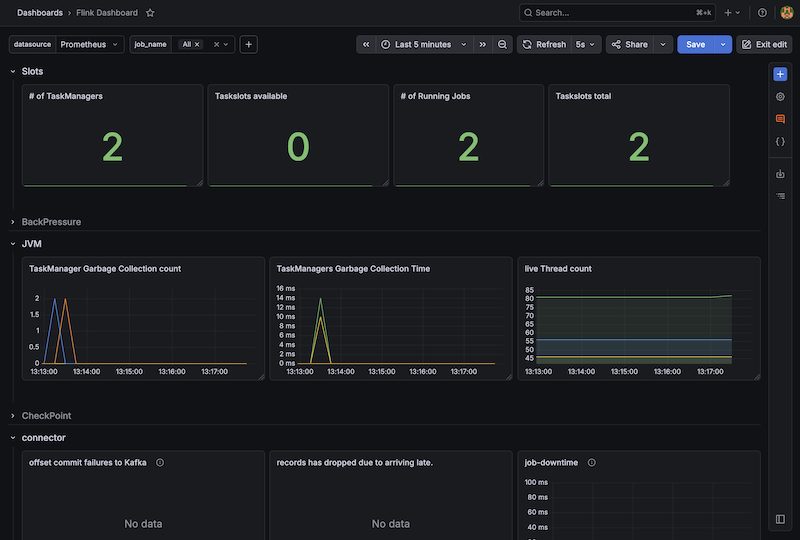
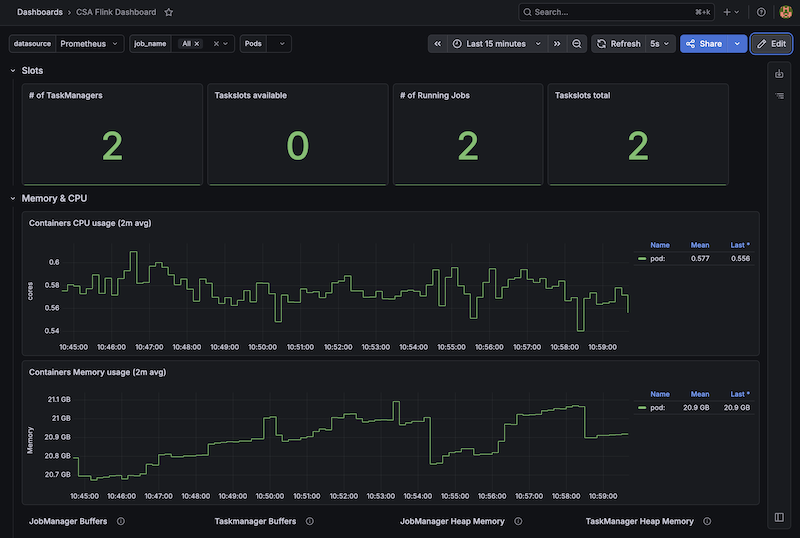
CSA Dashboard

diff --git a/_site/repos/index.html b/_site/repos/index.html
@@ -294,38 +294,7 @@
           </span>
 
           <span class="btn" style="padding: 0.2em 0.6em; font-size: 0.7em; cursor: default; pointer-events: none; margin-bottom: 5px; background-color: #eeeeee; color: #444444; border: 1px solid #dddddd;">
-            <i class="fas fa-calendar-alt" aria-hidden="true"></i> 2026-05-06
-          </span>
-
-        </div>
-      </article>
-    </div>
-  
-    <div class="grid__item">
-      <article class="archive__item" itemscope="" itemtype="https://schema.org/CreativeWork">
-        <h2 class="archive__item-title no_toc" itemprop="headline">
-          <a href="https://github.com/cldr-steven-matison/ClouderaStreamingOperators" rel="permalink">ClouderaStreamingOperators</a>
-        </h2>
-        
-        <p class="archive__item-excerpt" itemprop="description">
-          
-            Repo for yaml used in installing Cloudera Streaming Operators
-          
-        </p>
-
-        <div class="page__meta" style="margin-top: 10px;">
-          
-          
-          
-          <span class="btn btn--inverse" style="padding: 0.2em 0.6em; font-size: 0.7em; cursor: default; pointer-events: none; opacity: 0.8; margin-bottom: 5px;">
-            <i class="fas fa-database" aria-hidden="true"></i> 
-            
-              54 KB
-            
-          </span>
-
-          <span class="btn" style="padding: 0.2em 0.6em; font-size: 0.7em; cursor: default; pointer-events: none; margin-bottom: 5px; background-color: #eeeeee; color: #444444; border: 1px solid #dddddd;">
-            <i class="fas fa-calendar-alt" aria-hidden="true"></i> 2026-05-06
+            <i class="fas fa-calendar-alt" aria-hidden="true"></i> 2026-05-07
           </span>
 
         </div>
@@ -355,7 +324,38 @@
           <span class="btn btn--inverse" style="padding: 0.2em 0.6em; font-size: 0.7em; cursor: default; pointer-events: none; opacity: 0.8; margin-bottom: 5px;">
             <i class="fas fa-database" aria-hidden="true"></i> 
             
-              998 KB
+              0 MB
+            
+          </span>
+
+          <span class="btn" style="padding: 0.2em 0.6em; font-size: 0.7em; cursor: default; pointer-events: none; margin-bottom: 5px; background-color: #eeeeee; color: #444444; border: 1px solid #dddddd;">
+            <i class="fas fa-calendar-alt" aria-hidden="true"></i> 2026-05-07
+          </span>
+
+        </div>
+      </article>
+    </div>
+  
+    <div class="grid__item">
+      <article class="archive__item" itemscope="" itemtype="https://schema.org/CreativeWork">
+        <h2 class="archive__item-title no_toc" itemprop="headline">
+          <a href="https://github.com/cldr-steven-matison/ClouderaStreamingOperators" rel="permalink">ClouderaStreamingOperators</a>
+        </h2>
+        
+        <p class="archive__item-excerpt" itemprop="description">
+          
+            Repo for yaml used in installing Cloudera Streaming Operators
+          
+        </p>
+
+        <div class="page__meta" style="margin-top: 10px;">
+          
+          
+          
+          <span class="btn btn--inverse" style="padding: 0.2em 0.6em; font-size: 0.7em; cursor: default; pointer-events: none; opacity: 0.8; margin-bottom: 5px;">
+            <i class="fas fa-database" aria-hidden="true"></i> 
+            
+              54 KB
             
           </span>
 

diff --git a/_site/blog/Monitoring-Cloudera-Streaming-Analytics-(CSA)-with-Prometheus/index.html b/_site/blog/Monitoring-Cloudera-Streaming-Analytics-(CSA)-with-Prometheus/index.html
@@ -297,7 +297,7 @@
       <span class="page__meta-readtime">
         <i class="far fa-clock" aria-hidden="true"></i>
         
-          5 minute read
+          4 minute read
         
       </span>
     
@@ -503,37 +503,24 @@ or
 
 <h3 id="visualizing-in-grafana">Visualizing in Grafana</h3>
 
-<ul>
-  <li>
-<strong>ID <code class="language-plaintext highlighter-rouge">11049</code> (Recommended First Test)</strong>
+<p><strong>Import the Cloudera CSA Flink Dashboard</strong></p>
+<ol>
+  <li>Download the <a href="https://github.com/cldr-steven-matison/ClouderaStreamingOperators/blob/main/csa-flink-dashboard.json">CSA Flink Dashboard JSON</a>:
+    <div class="language-bash highlighter-rouge">
+<div class="highlight"><pre class="highlight"><code>curl <span class="nt">-O</span> https://raw.githubusercontent.com/cldr-steven-matison/ClouderaStreamingOperators/refs/heads/main/csa-flink-dashboard.json
+</code></pre></div>    </div>
+  </li>
+  <li>In Grafana → <strong>Dashboards</strong> → <strong>New</strong> → <strong>Import</strong>
+</li>
+  <li>Click <strong>Upload JSON file</strong> and select the downloaded file.</li>
+  <li>On the next screen:
     <ul>
-      <li>
-<strong>Name:</strong> Flink Dashboard</li>
-      <li>
-<strong>Description:</strong> The standard, most reliable community dashboard built explicitly for the Flink Prometheus Exporter. It tracks JobManagers, TaskManagers, JVM metrics, and basic job health.</li>
+      <li>Datasource → select your Prometheus data source</li>
+      <li>Click <strong>Import</strong>
+</li>
     </ul>
   </li>
-  <li>
-<strong>ID <code class="language-plaintext highlighter-rouge">14911</code></strong>
-    <ul>
-      <li>
-<strong>Name:</strong> Apache Flink Dashboard for Job / Task Manager</li>
-      <li>
-<strong>Description:</strong> A slightly more modern layout that breaks down metrics specifically between the Job Manager and Task Manager. Good for digging into CPU/Memory constraints.</li>
-    </ul>
-  </li>
-  <li>
-<strong>ID <code class="language-plaintext highlighter-rouge">14840</code></strong>
-    <ul>
-      <li>
-<strong>Name:</strong> Flink Metrics (with Kafka) on K8S</li>
-      <li>
-<strong>Description:</strong> Since you are running CSA alongside Kafka, this dashboard is actually built to monitor Flink applications <em>and</em> includes Kafka throughput parameters alongside Kubernetes memory/CPU stats.</li>
-    </ul>
-  </li>
-</ul>
-
-<p>[ this needs work,  need to check all 3 dashboards, build a cloudera dashboard ]</p>
+</ol>
 
 <p><em>Boom. You now have the new Cloudera CSA Flink Dashboard in Grafana:</em></p>
 

diff --git a/_site/tags/index.html b/_site/tags/index.html
@@ -9836,7 +9836,7 @@
       <span class="page__meta-readtime">
         <i class="far fa-clock" aria-hidden="true"></i>
         
-          4 minute read
+          5 minute read
         
       </span>
     
@@ -15834,7 +15834,7 @@
       <span class="page__meta-readtime">
         <i class="far fa-clock" aria-hidden="true"></i>
         
-          5 minute read
+          4 minute read
         
       </span>
     
@@ -19552,7 +19552,7 @@
       <span class="page__meta-readtime">
         <i class="far fa-clock" aria-hidden="true"></i>
         
-          5 minute read
+          4 minute read
         
       </span>
     
@@ -20118,7 +20118,7 @@
       <span class="page__meta-readtime">
         <i class="far fa-clock" aria-hidden="true"></i>
         
-          4 minute read
+          5 minute read
         
       </span>
     
@@ -20470,7 +20470,7 @@
       <span class="page__meta-readtime">
         <i class="far fa-clock" aria-hidden="true"></i>
         
-          4 minute read
+          5 minute read
         
       </span>
     
@@ -20516,7 +20516,7 @@
       <span class="page__meta-readtime">
         <i class="far fa-clock" aria-hidden="true"></i>
         
-          5 minute read
+          4 minute read
         
       </span>
     
@@ -20662,7 +20662,7 @@
       <span class="page__meta-readtime">
         <i class="far fa-clock" aria-hidden="true"></i>
         
-          4 minute read
+          5 minute read
         
       </span>
     
@@ -20708,7 +20708,7 @@
       <span class="page__meta-readtime">
         <i class="far fa-clock" aria-hidden="true"></i>
         
-          5 minute read
+          4 minute read
         
       </span>
     

diff --git a/_site/blog/Monitoring-Cloudera-Flow-Management-(CFM)-with-Prometheus/index.html b/_site/blog/Monitoring-Cloudera-Flow-Management-(CFM)-with-Prometheus/index.html
@@ -297,7 +297,7 @@
       <span class="page__meta-readtime">
         <i class="far fa-clock" aria-hidden="true"></i>
         
-          4 minute read
+          5 minute read
         
       </span>
     
@@ -509,6 +509,12 @@ kubectl apply <span class="nt">-f</span> nifi-service-monitor.yaml <span class="
 </ul>
 
 <p>If Query A and Query B are flowing together, your pipeline is healthy. If they diverge, you know instantly where the bottleneck is.</p>
+
+<h4 id="4-hammer-nuke-stuck-pods">4. <strong>Hammer Nuke Stuck Pods</strong>
+</h4>
+<p>If your NiFi pods get stuck in terminate 6/7 give this a try.</p>
+<div class="language-bash highlighter-rouge"><div class="highlight"><pre class="highlight"><code>kubectl delete pod mynifi-0 <span class="nt">-n</span> cfm-streaming <span class="nt">--force</span> <span class="nt">--grace-period</span><span class="o">=</span>0
+</code></pre></div></div>
 
         
       </section>
@@ -724,7 +730,7 @@ kubectl apply <span class="nt">-f</span> nifi-service-monitor.yaml <span class="
       <span class="page__meta-readtime">
         <i class="far fa-clock" aria-hidden="true"></i>
         
-          5 minute read
+          4 minute read
         
       </span>
     

diff --git a/_site/blog/Monitoring-Cloudera-Streams-Messaging-(CSM)-with-Prometheus/index.html b/_site/blog/Monitoring-Cloudera-Streams-Messaging-(CSM)-with-Prometheus/index.html
@@ -1018,7 +1018,7 @@ kubectl rollout restart deployment prometheus-kube-prometheus-operator <span cla
       <span class="page__meta-readtime">
         <i class="far fa-clock" aria-hidden="true"></i>
         
-          4 minute read
+          5 minute read
         
       </span>
     
@@ -1068,7 +1068,7 @@ kubectl rollout restart deployment prometheus-kube-prometheus-operator <span cla
       <span class="page__meta-readtime">
         <i class="far fa-clock" aria-hidden="true"></i>
         
-          5 minute read
+          4 minute read
         
       </span>
     

diff --git a/_site/blog/Observability-with-Cloudera-Streaming-Operators/index.html b/_site/blog/Observability-with-Cloudera-Streaming-Operators/index.html
@@ -609,7 +609,7 @@ This specific configuration enables proxy access, sets up the default datasource
       <span class="page__meta-readtime">
         <i class="far fa-clock" aria-hidden="true"></i>
         
-          4 minute read
+          5 minute read
         
       </span>
     
@@ -659,7 +659,7 @@ This specific configuration enables proxy access, sets up the default datasource
       <span class="page__meta-readtime">
         <i class="far fa-clock" aria-hidden="true"></i>
         
-          5 minute read
+          4 minute read
         
       </span>
     

diff --git a/_site/blog/index.html b/_site/blog/index.html
@@ -431,7 +431,7 @@
       <span class="page__meta-readtime">
         <i class="far fa-clock" aria-hidden="true"></i>
         
-          4 minute read
+          5 minute read
         
       </span>
     
@@ -481,7 +481,7 @@
       <span class="page__meta-readtime">
         <i class="far fa-clock" aria-hidden="true"></i>
         
-          5 minute read
+          4 minute read
         
       </span>
     

diff --git a/_site/categories/index.html b/_site/categories/index.html
@@ -999,7 +999,7 @@
       <span class="page__meta-readtime">
         <i class="far fa-clock" aria-hidden="true"></i>
         
-          4 minute read
+          5 minute read
         
       </span>
     
@@ -1045,7 +1045,7 @@
       <span class="page__meta-readtime">
         <i class="far fa-clock" aria-hidden="true"></i>
         
-          5 minute read
+          4 minute read
         
       </span>
     

diff --git a/_site/index.html b/_site/index.html
@@ -391,7 +391,7 @@
       <span class="page__meta-readtime">
         <i class="far fa-clock" aria-hidden="true"></i>
         
-          4 minute read
+          5 minute read
         
       </span>
     
@@ -437,7 +437,7 @@
       <span class="page__meta-readtime">
         <i class="far fa-clock" aria-hidden="true"></i>
         
-          5 minute read
+          4 minute read
         
       </span>
     

diff --git a/_site/blog/All-the-New-in-7.3.2/index.html b/_site/blog/All-the-New-in-7.3.2/index.html
@@ -1899,7 +1899,7 @@ enhanced client connectivity support.</p>
       <span class="page__meta-readtime">
         <i class="far fa-clock" aria-hidden="true"></i>
         
-          5 minute read
+          4 minute read
         
       </span>
     

diff --git a/_site/blog/Audio-Transcription-with-Cloudera-Streaming-Operators/index.html b/_site/blog/Audio-Transcription-with-Cloudera-Streaming-Operators/index.html
@@ -943,7 +943,7 @@ kubectl delete <span class="nt">-f</span> whisper-server.yaml
       <span class="page__meta-readtime">
         <i class="far fa-clock" aria-hidden="true"></i>
         
-          5 minute read
+          4 minute read
         
       </span>
     

diff --git a/_site/blog/CDP-5-Day-Trial/index.html b/_site/blog/CDP-5-Day-Trial/index.html
@@ -603,7 +603,7 @@
       <span class="page__meta-readtime">
         <i class="far fa-clock" aria-hidden="true"></i>
         
-          5 minute read
+          4 minute read
         
       </span>
     